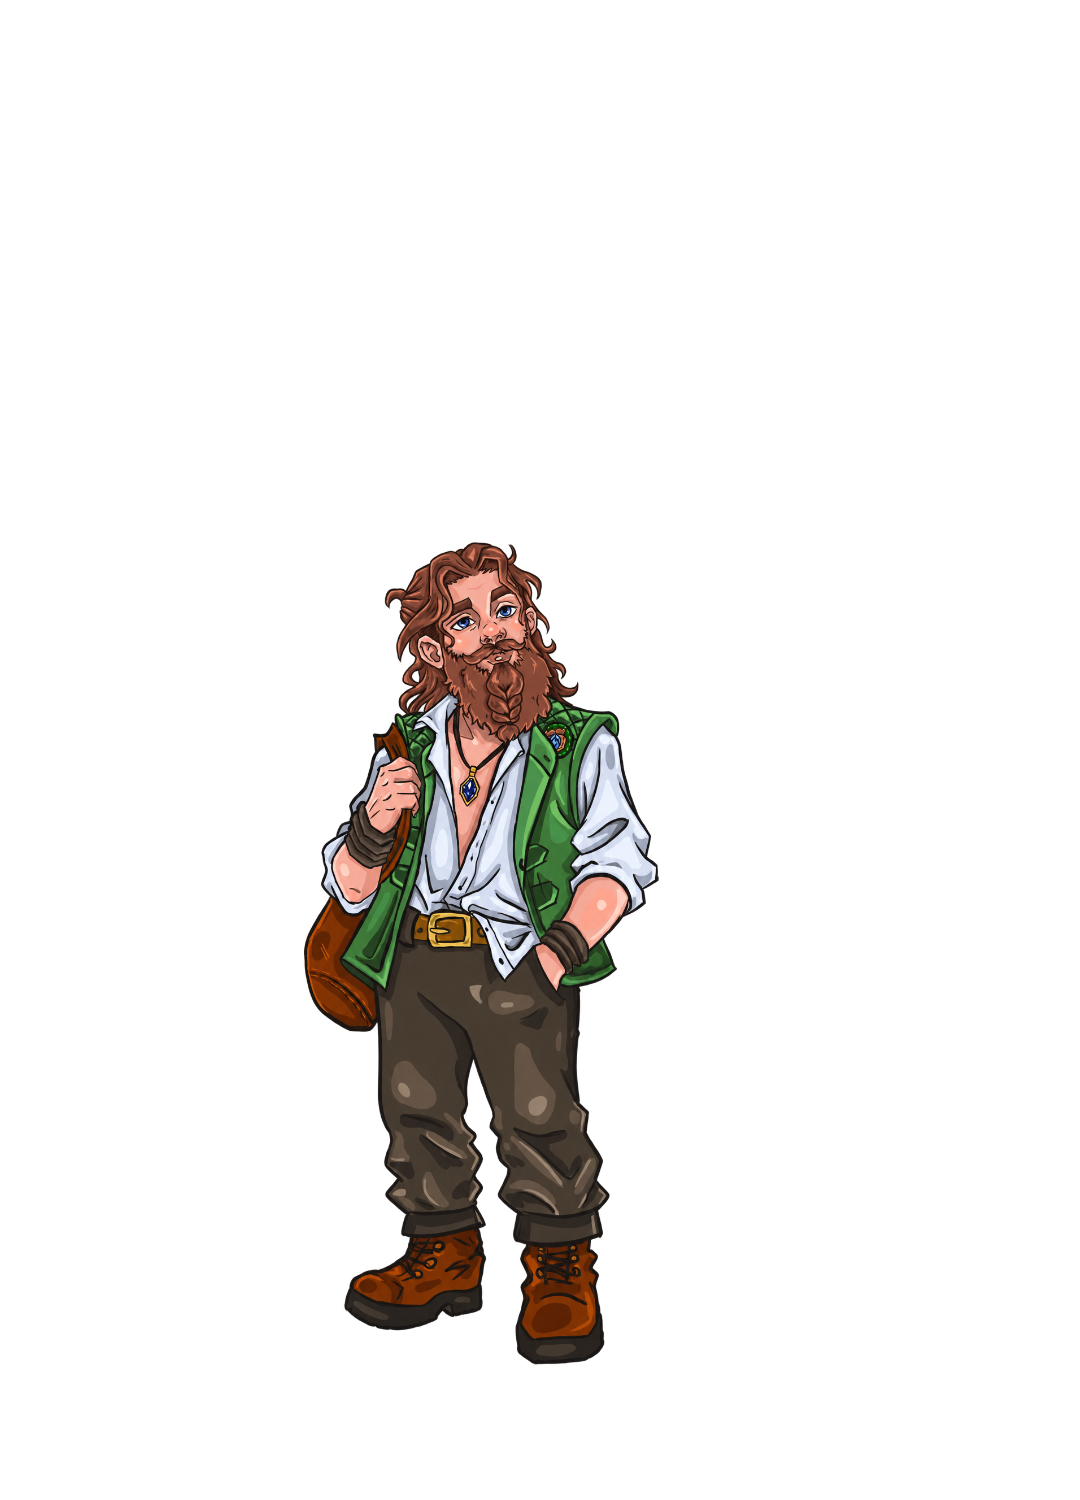
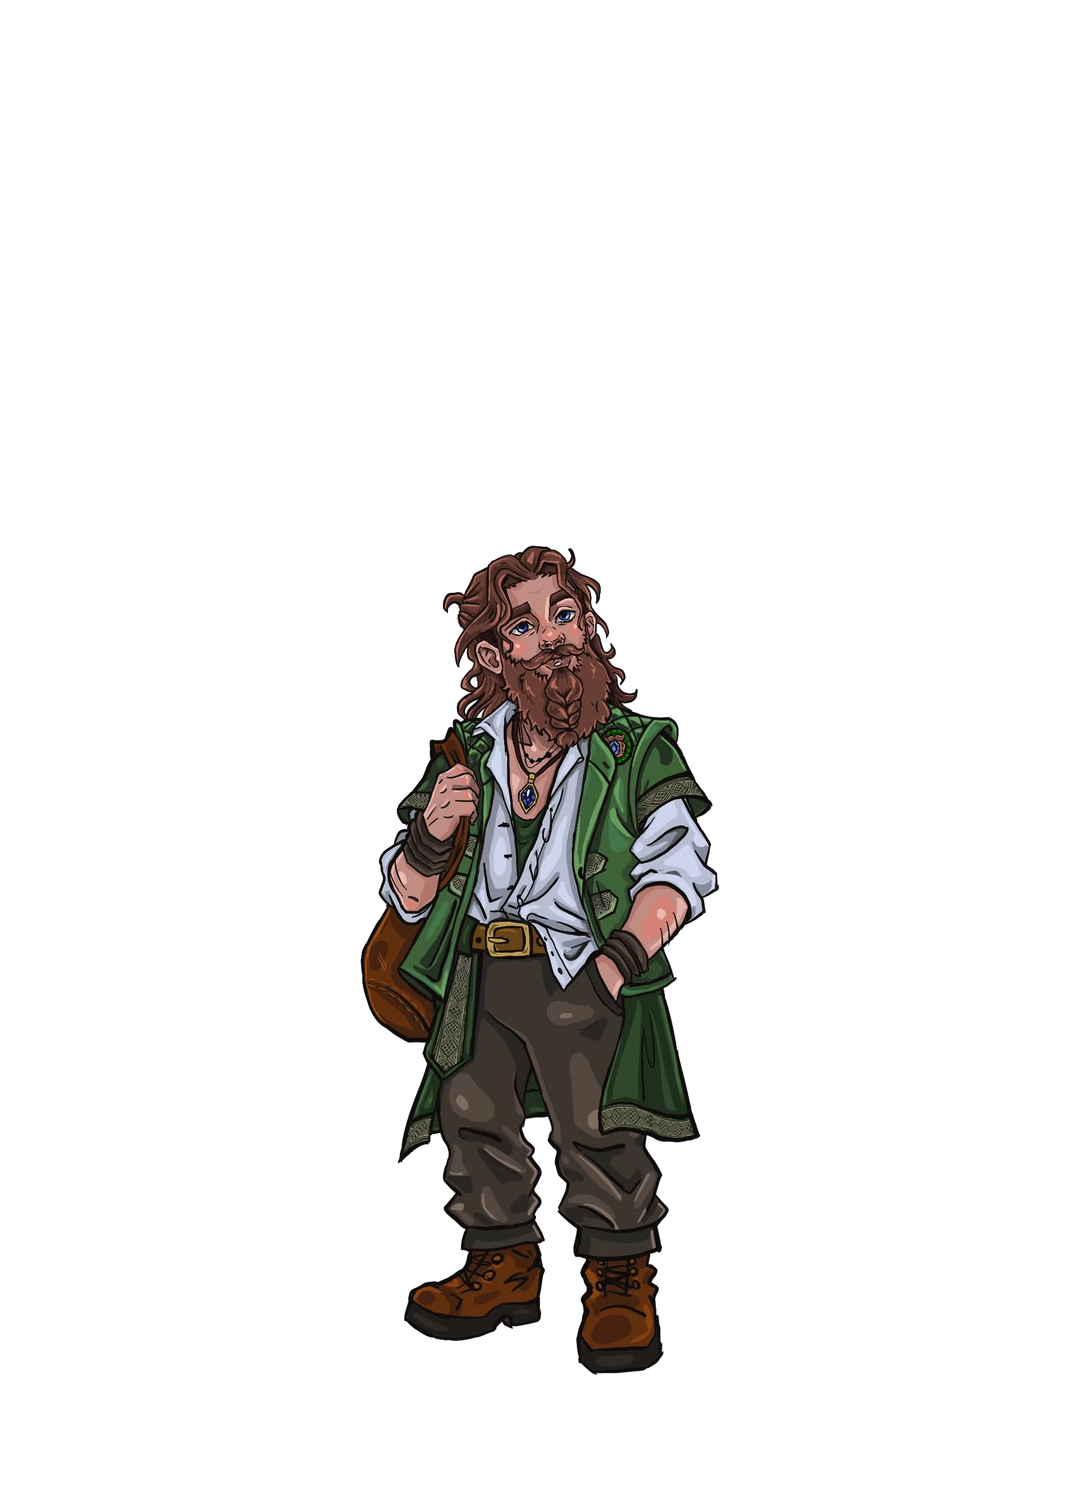
Nové portréty Koudura a Lety
Bílé pozadí odstraněno, plátno 1080 × 1500, chodidla na y = 1375.
Koudur 830 px (trpaslík, střední), Leta 750 px (malá).

Claude-Session: https://claude.ai/code/session_017UPFhgNsXjQi3ZCqTsXQqq

Changed region(s): [[0.275, 0.3373, 0.6722, 0.92]]

diff --git a/reference/ilustrace-postav.md b/reference/ilustrace-postav.md
@@ -13,7 +13,7 @@ Všechny portréty postav, NPC, bytostí a podob mají stejné plátno, aby veli
 | Velikost | Výška postavy | Příklad |
 | --- | --- | --- |
 | Tiny (drobná) | 400 px | |
-| Small (malá) | 750 px | Leta (717), goblin |
+| Small (malá) | 750 px | Leta, goblin |
 | Medium (střední) | 1100 px | Tusker, Alba, bandité, Malk Orren |
 | Large (velká) | 1300 px | Albiny podoby (vlk lítý, medvěd) |
 | Huge, Gargantuan | 1340 px (víc se na plátno nevejde) | |
